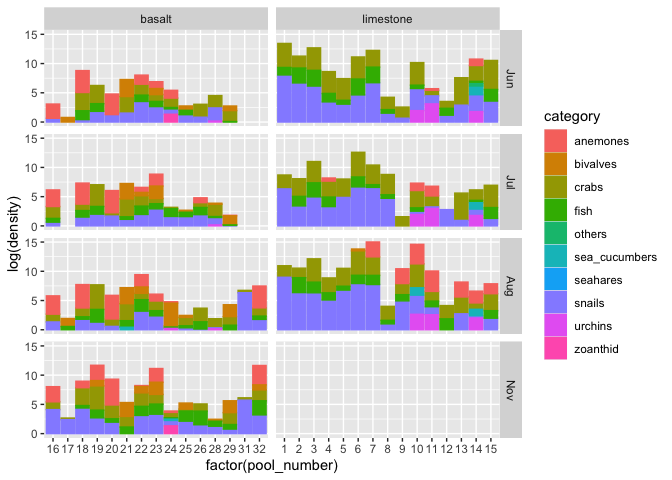
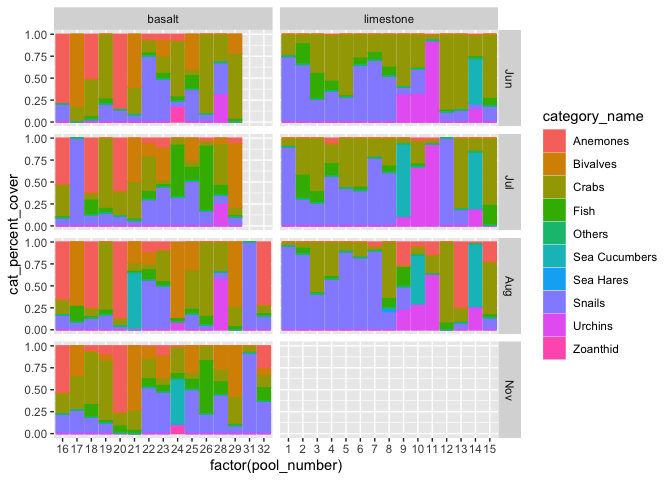
comm comp summary plots

diff --git a/Scripts/TP_community_composition.md b/Scripts/TP_community_composition.md
@@ -116,7 +116,7 @@ Change factor order
 ``` r
 # Change order levels 
 benthic_categories$category_name <- factor(benthic_categories$category_name, 
-                                             levels=c("Bare Rock", "Loose Rocks/Rubble", "Sand", "Turf/Cyanobacteria", "CCA", "Encrusting Algae", "Brown Algae", "Red Algae", "Green Algae", "Sponge"))
+                                             levels=c("Bare Rock", "Loose Rocks/Rubble", "Sand", "Turf/Cyanobacteria", "CCA", "Encrusting Algae", "Brown Macroalgae", "Red Macroalgae", "Green Macroalgae", "Sponge"))
 ```
 
 ``` r
@@ -248,7 +248,7 @@ mobile$month <- month(mobile$date, label = TRUE)
 
 ``` r
 mobile_long <- mobile %>%
-  select(-c("notes.x":"perimeter_m", "depth":"notes.y")) %>%
+  select(-c("notes.x":"perimeter_m", "max_depth_m":"notes.y")) %>%
   pivot_longer(
     cols = c("hermit_crab_large":"shrimp"),
     names_to = "id",
@@ -258,77 +258,73 @@ mobile_long <- mobile %>%
 Assign species to broader categories by joining with other datasheet
 
 ``` r
-mobile_categories <- left_join(mobile_long, categories)
+mobile_categories <- left_join(mobile_long, categories, by = "id")
 ```
 
-    ## Joining with `by = join_by(id)`
-
-Calculate density
+Calculate mobile percent cover
 
 ``` r
-mobile_categories_density <- mobile_categories %>%
-                             mutate(density = (count/surface_area_m2)) %>%
-                             select(-c(count, id, surface_area_m2)) %>%
+mobile_categories_pcover <- mobile_categories %>%
+                             mutate(pcover = ((count*surface_area_m2)/pool_surface_area_m2)*100) %>%
+                             select(-c(count, id, pool_surface_area_m2, avg_diameter_or_length_cm:surface_area_m2, production, calcification)) %>%
                              group_by(date, site, water_date, pool_number, substrate, category, category_name) %>%
-                             mutate(density = sum(density)) %>%
-                             distinct(date, site, water_date, pool_number, substrate, .keep_all = TRUE)  # Ensure only one row per pool
+                             mutate(cat_percent_cover = sum(pcover)) %>%
+                             select(-pcover) %>%
+                             distinct(date, site, water_date, pool_number, substrate, .keep_all = TRUE)  # only one row per category per pool
 ```
 
 Mobile Calcifiers
 
 ``` r
 mobile_calcifiers <- mobile_categories %>%
-                        mutate(density = (count/surface_area_m2)) %>%
-                        select(-c(count, id, surface_area_m2, category, category_name, production)) %>%
+                        mutate(pcover = ((count*surface_area_m2)/pool_surface_area_m2)*100) %>%
+                        select(-c(count, id, pool_surface_area_m2, avg_diameter_or_length_cm:surface_area_m2, category, category_name, production)) %>%
                         group_by(date, site, water_date, pool_number, substrate, calcification) %>%
-                        mutate(calc_density = sum(density)) %>%
-                       distinct(date, site, water_date, pool_number, substrate, .keep_all = TRUE)  # Ensure only one row per pool
+                        mutate(calc_percent_cover = sum(pcover)) %>%
+                        select(-pcover) %>%
+                        distinct(date, site, water_date, pool_number, substrate, .keep_all = TRUE)  # Ensure only one row per pool
 ```
 
 ``` r
 mobile_calc_wide <- mobile_calcifiers %>%
-  select(!density) %>%
   pivot_wider(
     names_from = calcification,
-    values_from = calc_density) %>%
-  rename("calcifying_density" = "calcifying",
-         "non_calcifying_density" = "non-calcifying")
+    values_from = calc_percent_cover) %>%
+  rename("inv_calcifying_pcover" = "calcifying",
+         "inv_non_calcifying_pcover" = "non-calcifying")
 ```
 
 Mobile Producers
 
 ``` r
 mobile_producers <- mobile_categories %>%
-                      mutate(density = (count/surface_area_m2)) %>%
-                      select(-c(count, id, surface_area_m2, category, category_name, calcification)) %>%
-                      group_by(date, site, water_date, pool_number, substrate, production) %>%
-                      mutate(prod_density = sum(density)) %>%
-                      distinct(date, site, water_date, pool_number, substrate, .keep_all = TRUE)  # Ensure only one row per pool
+                        mutate(pcover = ((count*surface_area_m2)/pool_surface_area_m2)*100) %>%
+                        select(-c(count, id, pool_surface_area_m2, avg_diameter_or_length_cm:surface_area_m2, category, category_name, calcification)) %>%
+                        group_by(date, site, water_date, pool_number, substrate, production) %>%
+                        mutate(prod_percent_cover = sum(pcover)) %>%
+                        select(-pcover) %>%
+                        distinct(date, site, water_date, pool_number, substrate, .keep_all = TRUE)  # Ensure only one row per pool
 ```
 
 ``` r
 mobile_prod_wide <- mobile_producers %>%
-  select(!density) %>%
   pivot_wider(
     names_from = production,
-    values_from = prod_density) %>%
-  rename("producer_density" = "producer",
-         "non_producer_density" = "non-producer")
+    values_from = prod_percent_cover) %>%
+  rename("inv_producer_pcover" = "producer",
+         "inv_non_producer_pcover" = "non-producer")
 ```
 
 ``` r
-mobile_categories_density %>% 
+mobile_categories_pcover %>% 
   filter(!pool_number %in% c(27,30)) %>%
   ggplot(aes(x = factor(pool_number),
-             y = log(density), 
-             fill = category, 
-             color = category)) +
-  geom_bar(stat = "identity") +
+             y = cat_percent_cover, 
+             fill = category_name, 
+             color = category_name)) +
+  geom_bar(stat = "identity", position = "fill") +
   facet_grid(month~substrate, scale = "free_x") 
 ```
-
-    ## Warning: Removed 665 rows containing missing values or values outside the scale range
-    ## (`geom_bar()`).
 
 ![](TP_community_composition_files/figure-gfm/unnamed-chunk-28-1.png)<!-- -->
 
@@ -340,7 +336,8 @@ comm_comp_summary <- list(benthic_prod_wide, benthic_calc_wide, mobile_prod_wide
 ```
 
     ## Joining with `by = join_by(date, site, water_date, pool_number, substrate,
-    ## month)`
+    ## month, avg_diameter_or_length_cm, other_dimension_cm, surface_area_cm2,
+    ## surface_area_m2)`
     ## Joining with `by = join_by(date, site, water_date, pool_number, substrate,
     ## month)`
     ## Joining with `by = join_by(date, site, water_date, pool_number, substrate,
@@ -348,8 +345,68 @@ comm_comp_summary <- list(benthic_prod_wide, benthic_calc_wide, mobile_prod_wide
 
 ``` r
 comm_comp_summary <- as.data.frame(comm_comp_summary) %>%
-                        select(-date) %>%
-                        rename("date" = "water_date")
+                        select(-c(date, avg_diameter_or_length_cm:surface_area_m2)) %>%
+                        rename("date" = "water_date") %>% 
+                        mutate(total_producer_pcover = producer_pcover + inv_producer_pcover,
+                               total_non_producer_pcover = non_producer_pcover + inv_non_producer_pcover,
+                               total_calcifying_pcover = calcifying_pcover + inv_calcifying_pcover,
+                               total_non_calcifying_pcover = non_calcifying_pcover + inv_non_calcifying_pcover)
+```
 
+``` r
+comm_comp_summary_long <- comm_comp_summary %>%
+  pivot_longer(
+    cols = c("total_producer_pcover":"total_non_calcifying_pcover"),
+    names_to = "category",
+    values_to = "pcover")
+```
+
+``` r
+comm_comp_summary_long %>%
+  filter((!pool_number %in% c(27, 30)) & (category %in% c("total_producer_pcover", "total_non_producer_pcover"))) %>%
+  ggplot(aes(x= factor(pool_number),
+               y = pcover, 
+               fill= factor(category), 
+               color= category)) + # set lines surrounding each color to match the fill colors
+      geom_bar(stat="identity", position="fill") + # stacked bars
+      facet_wrap(~substrate, scales = "free_x") +
+  
+      labs(x = "Pool", # labels
+           y="Relative Abundance",
+           fill = "Category")  +
+  
+      guides(color = "none")  + # keep only legend for fill since fill and color are the same
+      theme_minimal() 
+```
+
+    ## Warning: Removed 6 rows containing missing values or values outside the scale range
+    ## (`geom_bar()`).
+
+![](TP_community_composition_files/figure-gfm/unnamed-chunk-31-1.png)<!-- -->
+
+``` r
+comm_comp_summary_long %>%
+  filter((!pool_number %in% c(27, 30)) & (category %in% c("total_calcifying_pcover", "total_non_calcifying_pcover"))) %>%
+  ggplot(aes(x= factor(pool_number),
+               y = pcover, 
+               fill= factor(category), 
+               color= category)) + # set lines surrounding each color to match the fill colors
+      geom_bar(stat="identity", position="fill") + # stacked bars
+      facet_wrap(~substrate, scales = "free_x") +
+  
+      labs(x = "Pool", # labels
+           y="Relative Abundance",
+           fill = "Category")  +
+  
+      guides(color = "none")  + # keep only legend for fill since fill and color are the same
+      theme_minimal() 
+```
+
+    ## Warning: Removed 6 rows containing missing values or values outside the scale range
+    ## (`geom_bar()`).
+
+![](TP_community_composition_files/figure-gfm/unnamed-chunk-32-1.png)<!-- -->
+
+``` r
 write.csv(comm_comp_summary, here("Data", "comm_comp_summary.csv"))
 ```